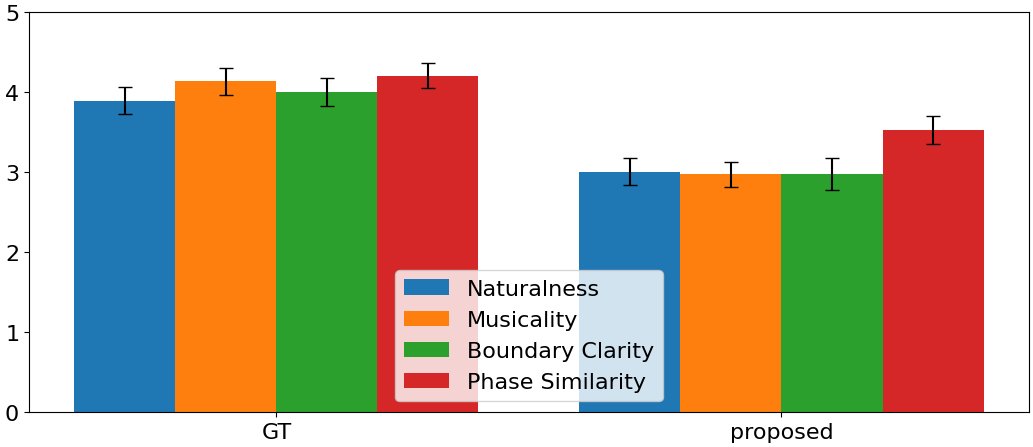
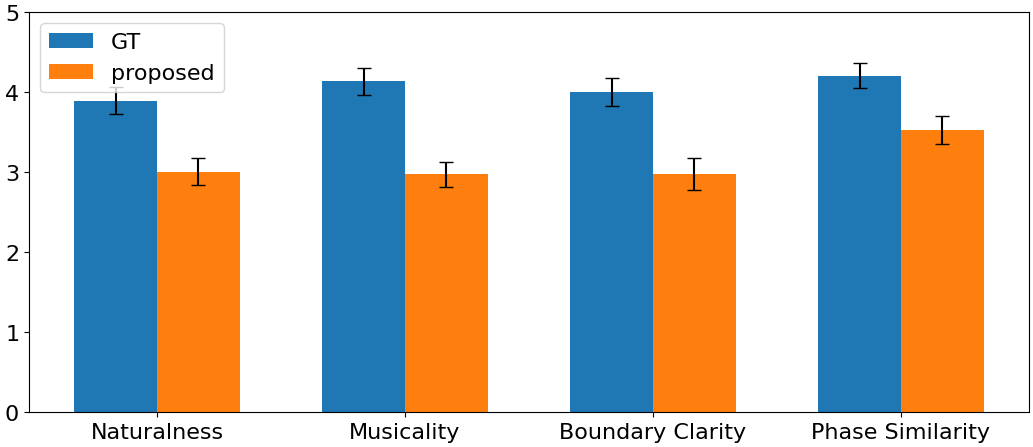
グルーピングをシステムごと -> 指標ごとに変更

diff --git a/results/analysis.py b/results/analysis.py
@@ -86,28 +86,26 @@ def graph(grouped_values, filename, type_="mos1"):
     plt.close("all")
 
     # グラフの描画
-    x = np.arange(num_keys)  # X軸位置: keysの数だけ
+    x = np.arange(num_items)  # X軸位置: keysの数だけ
     fig, ax = plt.subplots(figsize=(10, 4))
 
     # 項目ごとに棒グラフを描画
-    width = 0.2  # バーの幅
-    for i in range(num_items):
+    width = 1 / (num_keys + 1)  # バーの幅
+    for i in range(num_keys):
         ax.bar(
-            x + i * width,
-            means[i, :],
+            x + i * width - (num_keys - 1) / (num_keys * 2 + 2),  # 1/6 , 2/8 3/10
+            means[:, i],
             width,
-            yerr=confidence_intervals_upper[i, :] - means[i, :],  # 95%信頼区間
+            yerr=confidence_intervals_upper[:, i] - means[:, i],  # 95%信頼区間
             capsize=5,
-            label=QUESTION_NAMES[type_][i],
+            label=SYSTEM_NAMES[list(grouped_values.keys())[i]],
         )
 
     # ラベルとタイトルを設定
     ax.tick_params(labelsize=FONT_SIZE)
     ax.set_yticks([i for i in range(0, 6)])
-    ax.set_xticks(x + width * (num_items - 1) / 2)
-    ax.set_xticklabels(
-        [SYSTEM_NAMES[key] for key in grouped_values.keys()], fontsize=FONT_SIZE
-    )  # keys（AB, CD, EFなど）
+    ax.set_xticks(x)
+    ax.set_xticklabels(QUESTION_NAMES[type_], fontsize=FONT_SIZE)
     ax.legend(fontsize=FONT_SIZE)
 
     # グラフの表示
